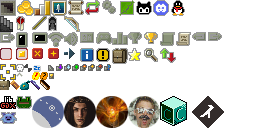
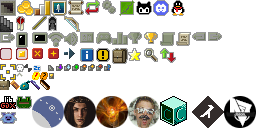
v0.0.7p6 update

Changed region(s): [[0.875, 0.75, 1.0, 1.0]]

diff --git a/core/src/main/java/com/ansdoship/carbonizedpixeldungeon/ui/changelist/cbpd/v0_0_X_Changes.java b/core/src/main/java/com/ansdoship/carbonizedpixeldungeon/ui/changelist/cbpd/v0_0_X_Changes.java
@@ -47,6 +47,7 @@ public class v0_0_X_Changes {
 		changes.hardlight( Window.TITLE_COLOR);
 		changeInfos.add(changes);
 
+		add_v0_0_7p6_changes(changeInfos);
 		add_v0_0_7p5_changes(changeInfos);
 		add_v0_0_7p4_changes(changeInfos);
 		add_v0_0_7p3_changes(changeInfos);
@@ -71,6 +72,25 @@ public class v0_0_X_Changes {
 		add_v0_0_2p1_changes(changeInfos);
 		add_v0_0_2_Changes(changeInfos);
 		add_v0_0_1_Changes(changeInfos);
+	}
+
+	public static void add_v0_0_7p6_changes( ArrayList<ChangeInfo> changeInfos ) {
+		ChangeInfo changes = new ChangeInfo("v0.0.7p6", false, "");
+		changes.hardlight(Window.TITLE_COLOR);
+		changeInfos.add(changes);
+
+		changes.addButton( new ChangeButton(Icons.get(Icons.LANGS), Messages.get(ChangesScene.class, "language"),
+				"补全了部分游戏文本"));
+
+		changes.addButton( new ChangeButton(Icons.get(Icons.DISPLAY), "界面改进",
+				"优化了关于界面"));
+
+		changes.addButton(new ChangeButton(Icons.get(Icons.PREFS), Messages.get(ChangesScene.class, "misc"),
+				"将启动界面和过场动画的设置分开"));
+
+		changes.addButton(new ChangeButton(new Image(Assets.Sprites.SPINNER, 144, 0, 16, 16), Messages.get(ChangesScene.class, "bugfixes"),
+				"尝试修复了：\n" +
+						"_-_ 过场动画的闪退问题"));
 	}
 
 	public static void add_v0_0_7p5_changes( ArrayList<ChangeInfo> changeInfos ) {
@@ -109,7 +129,7 @@ public class v0_0_X_Changes {
 				"补全了部分游戏文本"));
 
 		changes.addButton( new ChangeButton(Icons.get(Icons.DISPLAY), "界面改进",
-				"_-_ 优化了过场动画界面"));
+				"优化了过场动画界面"));
 
 		changes.addButton(new ChangeButton(new Image(Assets.Sprites.SPINNER, 144, 0, 16, 16), Messages.get(ChangesScene.class, "bugfixes"),
 				"尝试修复了：\n" +
@@ -125,7 +145,7 @@ public class v0_0_X_Changes {
 				"补全了部分游戏文本"));
 
 		changes.addButton( new ChangeButton(Icons.get(Icons.DISPLAY), "界面改进",
-				"_-_ 修改了死亡界面"));
+				"修改了死亡界面"));
 
 		changes.addButton(new ChangeButton(new Image(Assets.Sprites.SPINNER, 144, 0, 16, 16), Messages.get(ChangesScene.class, "bugfixes"),
 				"尝试修复了：\n" +

diff --git a/core/src/main/java/com/ansdoship/carbonizedpixeldungeon/windows/WndSettings.java b/core/src/main/java/com/ansdoship/carbonizedpixeldungeon/windows/WndSettings.java
@@ -216,6 +216,7 @@ public class WndSettings extends WndTabbed {
 		CheckBox chkFullscreen;
 		OptionSlider optScale;
 		OptionSlider optSplashScreen;
+		OptionSlider optTransAnim;
 		CheckBox chkSaver;
 		RedButton btnOrientation;
 		ColorBlock sep2;
@@ -259,6 +260,20 @@ public class WndSettings extends WndTabbed {
 			};
 			optSplashScreen.setSelectedValue(PDSettings.splashScreen());
 			add(optSplashScreen);
+
+			optTransAnim = new OptionSlider(Messages.get(this, "trans_anim"),
+					Messages.get(this, "disable" ),
+					Messages.get( this, "full" ),
+					0, 2) {
+				@Override
+				protected void onChange() {
+					if (getSelectedValue() != PDSettings.transAnim()) {
+						PDSettings.transAnim(getSelectedValue());
+					}
+				}
+			};
+			optTransAnim.setSelectedValue(PDSettings.transAnim());
+			add(optTransAnim);
 
 			if ((int)Math.ceil(2* Game.density) < PixelScene.maxDefaultZoom) {
 				optScale = new OptionSlider(Messages.get(this, "scale"),
@@ -374,19 +389,24 @@ public class WndSettings extends WndTabbed {
 				bottom = btnOrientation.bottom();
 			}
 
-			if (width > 200 && optScale != null) {
+			if (width > 200 && optTransAnim != null) {
 				optSplashScreen.setRect(0, bottom + GAP, width/2-1, SLIDER_HEIGHT);
-				optScale.setRect(optSplashScreen.right() + GAP, bottom + GAP, width/2-1, SLIDER_HEIGHT);
+				optTransAnim.setRect(optSplashScreen.right() + GAP, bottom + GAP, width/2-1, SLIDER_HEIGHT);
 				bottom = optSplashScreen.bottom();
 			}
 			else {
 				optSplashScreen.setRect(0, bottom + GAP, width, SLIDER_HEIGHT);
 				bottom = optSplashScreen.bottom();
 
-				if (optScale != null){
-					optScale.setRect(0, bottom + GAP, width, SLIDER_HEIGHT);
-					bottom = optScale.bottom();
+				if (optTransAnim != null){
+					optTransAnim.setRect(0, bottom + GAP, width, SLIDER_HEIGHT);
+					bottom = optTransAnim.bottom();
 				}
+			}
+
+			if (optScale != null){
+				optScale.setRect(0, bottom + GAP, width, SLIDER_HEIGHT);
+				bottom = optScale.bottom();
 			}
 
 			sep2.size(width, 1);

diff --git a/core/src/main/java/com/ansdoship/carbonizedpixeldungeon/scenes/AboutScene.java b/core/src/main/java/com/ansdoship/carbonizedpixeldungeon/scenes/AboutScene.java
@@ -84,17 +84,26 @@ public class AboutScene extends PixelScene {
 		CreditsBlock ptr = new CreditsBlock(false, TIANS_COLOR,
 				"Music:",
 				Icons.PTR.get(),
-				"Progressive Tune" +
-						"\n_theme.ogg_ by _Jason_",
+				"Progressive Tune",
 				"progressive-tune.github.io",
 				"https://progressive-tune.github.io/ptr", true);
 		ptr.setSize(colWidth/2f, 0);
+		CreditsBlock jason = new CreditsBlock(false, TIANS_COLOR,
+				"theme.ogg",
+				Icons.JASON.get(),
+				"Jasφn",
+				"music.163.com/artist/...",
+				"https://music.163.com/artist?id=48991962&userid=3270966253");
+		jason.setSize(colWidth/2f, 0);
 		if (landscape()){
-			ptr.setPos(tians.right() + colWidth/4f, tians.top() + (tians.height() - ptr.height())/2f);
+			ptr.setPos(tians.right() + colWidth/4f, tians.top() + (tians.height() - ptr.height() - jason.height())/2f);
+			jason.setPos(ptr.left(), ptr.bottom() + 5);
 		} else {
 			ptr.setRect(w / 2f - colWidth/4f, tians.bottom() + 5, colWidth/2f, 0);
+			jason.setRect(w / 2f - colWidth/4f, ptr.bottom() + 5, colWidth/2f, 0);
 		}
 		content.add(ptr);
+		content.add(jason);
 
 		//*** Shattered Pixel Dungeon Credits ***
 
@@ -113,7 +122,7 @@ public class AboutScene extends PixelScene {
 		if (landscape()){
 			shpx.setRect(tians.left(), tians.bottom() + 13, colWidth, 0);
 		} else {
-			shpx.setRect(tians.left(), ptr.bottom() + 12, colWidth, 0);
+			shpx.setRect(tians.left(), jason.bottom() + 12, colWidth, 0);
 		}
 		content.add(shpx);
 

diff --git a/core/src/main/java/com/ansdoship/carbonizedpixeldungeon/scenes/InterlevelScene.java b/core/src/main/java/com/ansdoship/carbonizedpixeldungeon/scenes/InterlevelScene.java
@@ -156,11 +156,11 @@ public class InterlevelScene extends PixelScene {
 		else                         loadingAsset = Assets.Interfaces.SHADOW;
 		
 		//slow down transition when displaying an install prompt
-		if (Updates.isInstallable() || PDSettings.splashScreen() > 1){
+		if (Updates.isInstallable() || PDSettings.transAnim() > 1){
 			fadeTime += 0.5f; //adds 1 second total
 		}
 		//speed up transition when debugging
-		else if (Game.platform.isDebug() || PDSettings.splashScreen() < 1){
+		if (Game.platform.isDebug() || PDSettings.transAnim() < 1){
 			fadeTime = 0f;
 		}
 		
@@ -212,7 +212,7 @@ public class InterlevelScene extends PixelScene {
 		align(message);
 		add( message );
 
-		if (PDSettings.splashScreen() > 1) {
+		if (PDSettings.transAnim() > 1 && !Game.platform.isDebug()) {
 			text = Messages.get(InterlevelScene.class, "tip_" + Random.Int(1, 7));
 			tip = PixelScene.renderTextBlock( text, 6 );
 			tip.setPos(

diff --git a/core/src/main/java/com/ansdoship/carbonizedpixeldungeon/PDSettings.java b/core/src/main/java/com/ansdoship/carbonizedpixeldungeon/PDSettings.java
@@ -54,6 +54,7 @@ public class PDSettings extends GameSettings {
 	public static final String KEY_SCALE		= "scale";
 	public static final String KEY_ZOOM			= "zoom";
 	public static final String KEY_SPLASH_SCREEN= "splash_screen";
+	public static final String KEY_TRANS_ANIM   = "trans_anim";
 	public static final String KEY_BRIGHTNESS	= "brightness";
 	public static final String KEY_GRID 	    = "visual_grid";
 	
@@ -113,6 +114,14 @@ public class PDSettings extends GameSettings {
 
 	public static int splashScreen() {
 		return getInt( KEY_SPLASH_SCREEN, 1 );
+	}
+
+	public static void transAnim( int value ) {
+		put( KEY_TRANS_ANIM, value );
+	}
+
+	public static int transAnim() {
+		return getInt( KEY_TRANS_ANIM, 2 );
 	}
 	
 	public static void brightness( int value ) {

diff --git a/core/src/main/java/com/ansdoship/carbonizedpixeldungeon/ui/Icons.java b/core/src/main/java/com/ansdoship/carbonizedpixeldungeon/ui/Icons.java
@@ -115,7 +115,8 @@ public enum Icons {
 	CUBE_CODE,
 	PURIGRO,
 	ARCNOR,
-	PTR;
+	PTR,
+	JASON;
 
 	public Image get() {
 		return get( this );
@@ -366,6 +367,10 @@ public enum Icons {
 				break;
 			case PTR:
 				icon.frame( icon.texture.uvRectBySize( 192, 96, 32, 32 ) );
+				icon.scale.set(PixelScene.align(0.49f));
+				break;
+			case JASON:
+				icon.frame( icon.texture.uvRectBySize( 224, 96, 32, 32 ) );
 				icon.scale.set(PixelScene.align(0.49f));
 				break;
 

diff --git a/core/src/main/java/com/ansdoship/carbonizedpixeldungeon/scenes/WelcomeScene.java b/core/src/main/java/com/ansdoship/carbonizedpixeldungeon/scenes/WelcomeScene.java
@@ -153,7 +153,7 @@ public class WelcomeScene extends PixelScene {
 				message = Messages.get(this, "patch_intro");
 				message += "\n";
 				//message += "\n" + Messages.get(this, "patch_balance");
-				message += "\n" + Messages.get(this, "patch_bugfixes");
+				//message += "\n" + Messages.get(this, "patch_bugfixes");
 				message += "\n" + Messages.get(this, "patch_translations");
 
 			}
